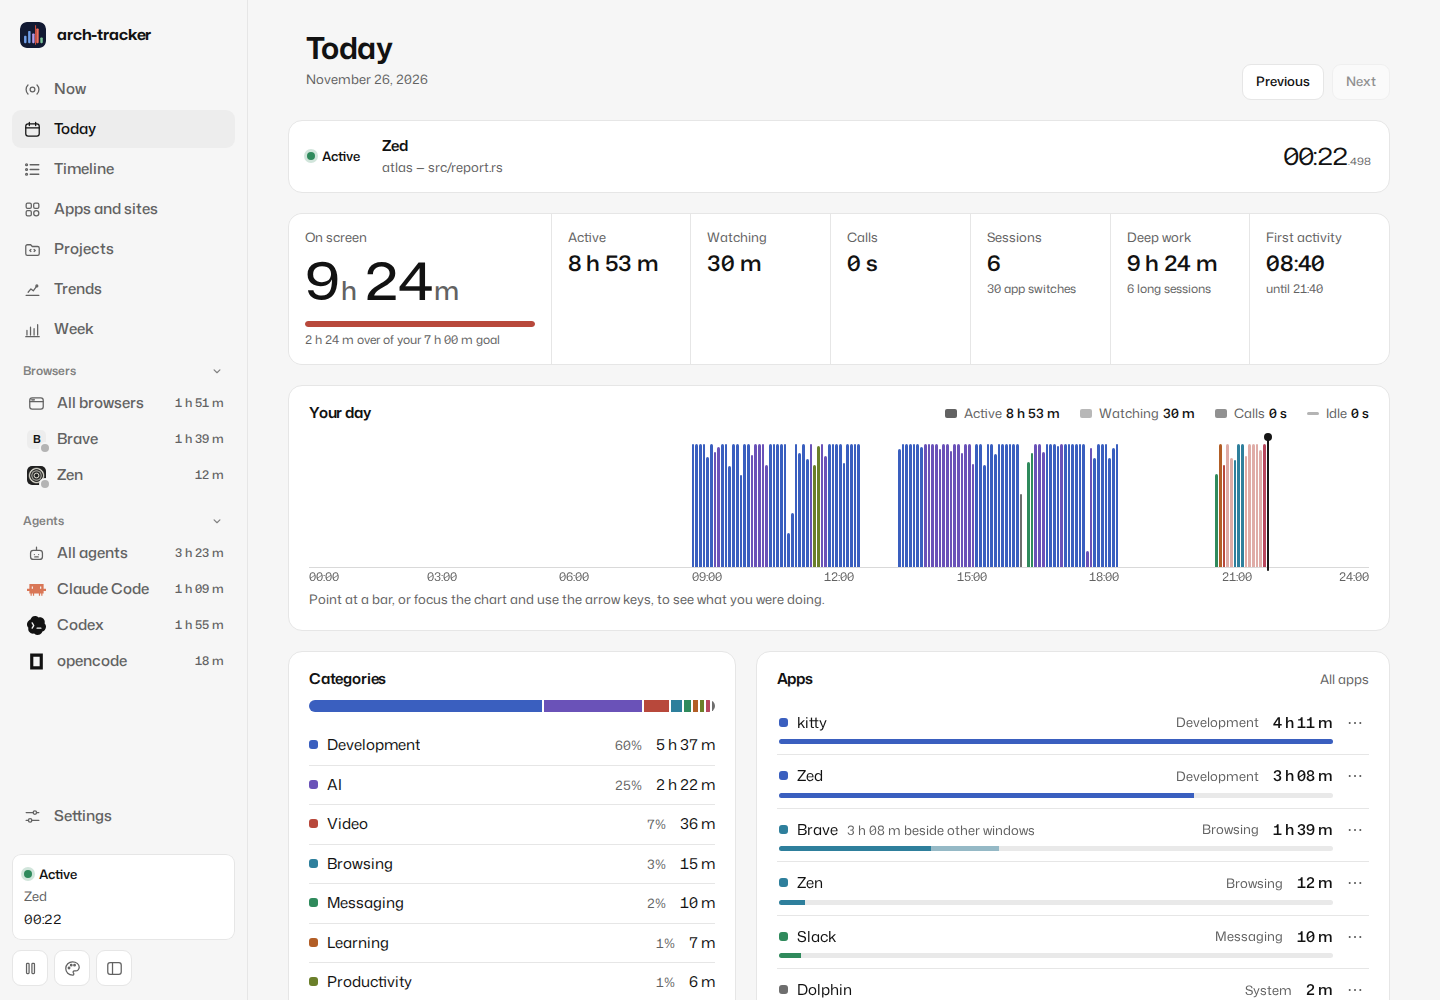
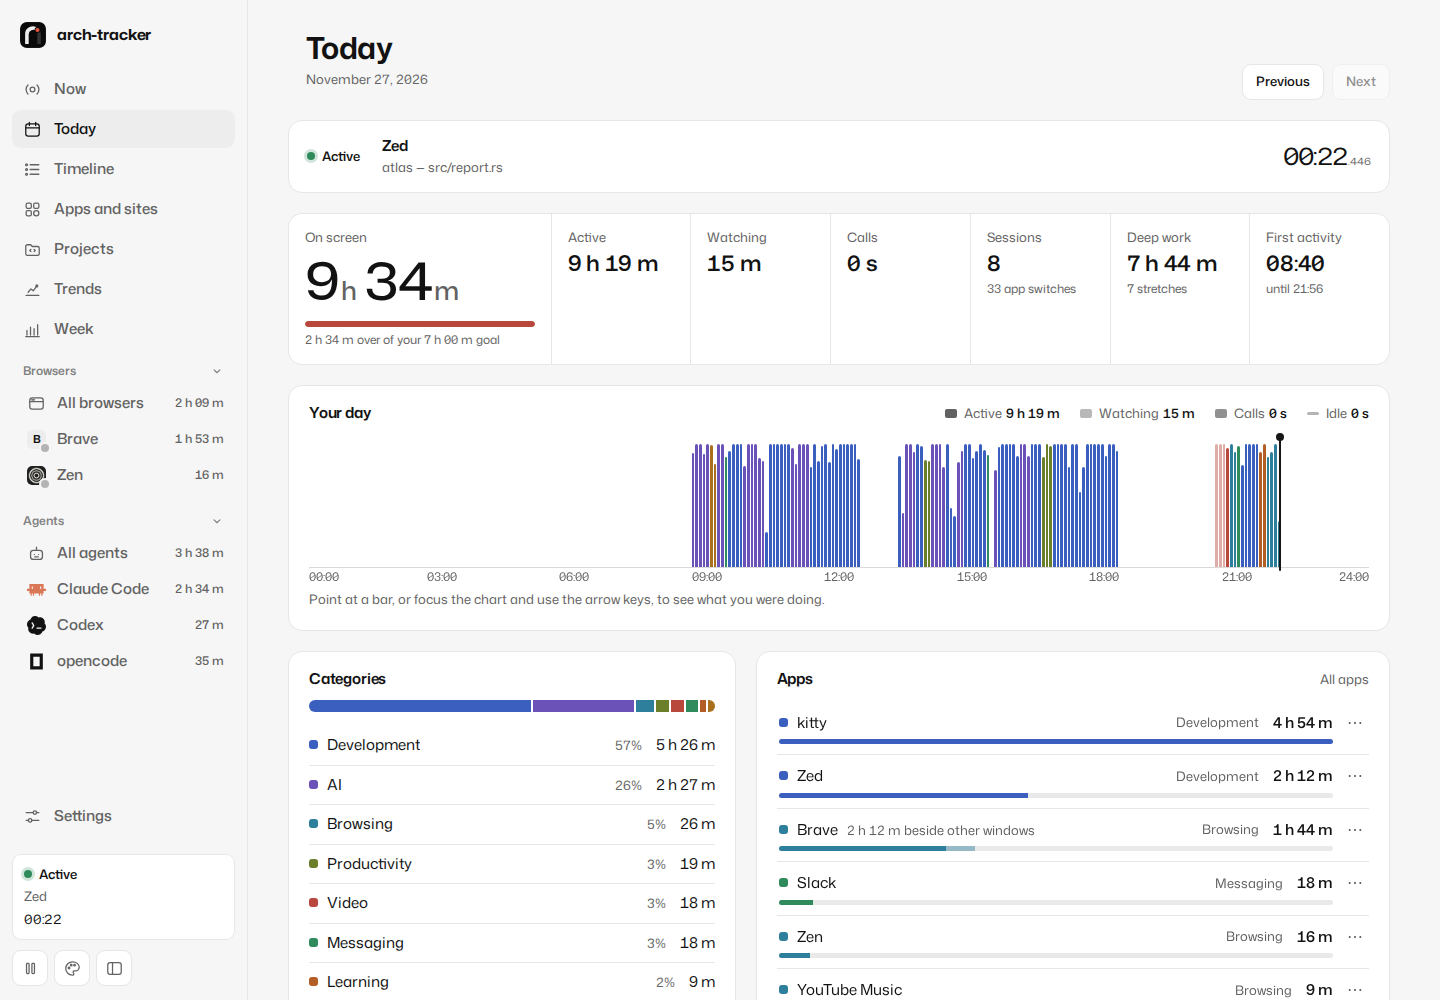
dashboard: honest deep work, a quieter Now page
Deep work counts only time in focus categories (chosen in Settings), so a long evening of
videos is no longer deep work. Now folds empty panels into one line, headline figures no
longer reserve a fixed width, and the WAL file is cut back to 1 MB after checkpoints.
Screenshots run in a time zone where it is evening, so the demo always shows a full day.

diff --git a/web-ui/app.js b/web-ui/app.js
@@ -618,15 +618,26 @@
       <dt>Started</dt><dd>${s.started_ms ? esc(hm(s.started_ms)) : "–"}</dd>
       <dt>Version</dt><dd>${esc(s.version || "")}</dd>
     </dl>`;
+    // Panels with nothing to show fold into one quiet line at the bottom, so the page shows
+    // what is going on instead of a wall of empty cards.
+    const cards = [
+      ["Beside it", visible, { w: "w4", aside: `${(s.visible || []).length} visible`, sub: "Other windows you can see. Visible time, not screen time." }],
+      ["Terminals", terms, { w: "w4" }],
+      ["AI agents", agents, { w: "w4" }],
+      ["Media", media, { w: "w4" }],
+      ["Input and session", facts, { w: "w4" }],
+      ["Browsers", browsers, { w: "w4", sub: "Where tab names and sites come from." }],
+    ];
+    const isEmpty = (body) => body.startsWith('<p class="empty">');
+    const quiet = cards.filter(([, b]) => isEmpty(b)).map(([, b]) => b.replace(/<[^>]+>/g, "").replace(/\.$/, ""));
+    const shown = cards.filter(([, b]) => !isEmpty(b));
+    shown.push(["Tracker", health, { w: "w4", sub: "The tracker itself." }]);
+    // Three small cards to a row; Running apps takes what the last row leaves, or a row of its own.
+    const left = (3 - (shown.length % 3)) % 3;
     return [
-      panel("Beside it", visible, { w: "w4", aside: `${(s.visible || []).length} visible`, sub: "Other windows you can see. Visible time, not screen time." }),
-      panel("Terminals", terms, { w: "w4" }),
-      panel("AI agents", agents, { w: "w4" }),
-      panel("Media", media, { w: "w4" }),
-      panel("Input and session", facts, { w: "w4" }),
-      panel("Browsers", browsers, { w: "w4", sub: "Where tab names and sites come from." }),
-      panel("Running apps", running, { w: "w8", aside: `${(s.running || []).length} open`, sub: "Open, even in the tray. Never counted as use." }),
-      panel("Tracker", health, { w: "w4", sub: "The tracker itself." }),
+      ...shown.map(([t, b, o]) => panel(t, b, o)),
+      panel("Running apps", running, { w: left ? `w${left * 4}` : "w12", aside: `${(s.running || []).length} open`, sub: "Open, even in the tray. Never counted as use." }),
+      quiet.length ? `<p class="quiet">${quiet.map(esc).join(" · ")}</p>` : "",
     ].join("");
   }
 
@@ -713,7 +724,7 @@
       <div class="kpi"><span>Watching</span><b>${dur(t.passive)}</b></div>
       <div class="kpi"><span>Calls</span><b>${dur(t.call)}</b></div>
       <div class="kpi"><span>Sessions</span><b>${st.sessions ?? 0}</b><em>${st.switches ?? 0} app switches</em></div>
-      <div class="kpi"><span>Deep work</span><b>${dur(st.deep_work)}</b><em>${st.deep_sessions ?? 0} long sessions</em></div>
+      <div class="kpi"><span>Deep work</span><b>${dur(st.deep_work)}</b><em>${st.deep_sessions ?? 0} ${st.deep_sessions === 1 ? "stretch" : "stretches"}</em></div>
       <div class="kpi"><span>First activity</span><b>${first}</b><em>${last}</em></div>
     </div>`;
   }
@@ -2277,7 +2288,8 @@
       ${sec("goals", "Goals and sessions", `
         ${field("Daily goal", "Screen time you aim to stay under; Today shows how close you are. 0 turns it off.", num("goal", (c.insights.daily_goal_mins || 0) / 60, "hours", 0, 24, "any"))}
         ${field("Session break", "A pause shorter than this doesn't end a session. Switching apps never does.", num("sgap", c.insights.session_gap_secs, "seconds", 5, 3600))}
-        ${field("Deep work", "An unbroken session at least this long counts as deep work.", num("deep", c.insights.deep_work_mins, "minutes", 5, 480))}
+        ${field("Deep work", "A stretch of time in the categories below at least this long counts as deep work.", num("deep", c.insights.deep_work_mins, "minutes", 5, 480))}
+        ${field("Counts as deep work", "Time elsewhere shorter than a session break (a glance at chat) doesn't end a stretch, but isn't counted. None ticked: every category counts.", `<div class="checklist">${c.categories.map((k, i) => check("dwc" + i, (c.insights.deep_work_categories || []).includes(k.name), k.name)).join("")}</div>`)}
       `, "Per-category limits are in Categories below.")}
       ${sec("notify", "Notifications", `
         ${field("Notifications", "Off turns every notice below off: nothing is checked or sent.", check("nall", nt.enabled, "Send desktop notifications"))}
@@ -2517,6 +2529,7 @@
         daily_goal_mins: Math.round(n("goal") * 60),
         session_gap_secs: n("sgap"),
         deep_work_mins: n("deep"),
+        deep_work_categories: c.categories.filter((_, i) => $("dwc" + i)?.checked).map((k) => k.name),
       };
       next.projects = {
         editors: unlines($("editors").value),

diff --git a/web-ui/app.css b/web-ui/app.css
@@ -418,6 +418,7 @@ input:focus-visible, select:focus-visible, textarea:focus-visible { outline: 2px
 [aria-invalid="true"] { border-color: var(--bad, var(--shu)) !important; }
 .inline { display: flex; align-items: center; gap: 10px; flex-wrap: wrap; }
 .check { display: flex; align-items: center; gap: 10px; }
+.checklist { display: grid; grid-template-columns: repeat(auto-fill, minmax(150px, 1fr)); gap: 8px 16px; }
 .unit { color: var(--mist); font-size: var(--t-s); }
 
 /* ---------- panels ---------- */
@@ -441,6 +442,7 @@ input:focus-visible, select:focus-visible, textarea:focus-visible { outline: 2px
 .panel.w7 { grid-column: span 7; }
 .panel.w8 { grid-column: span 8; }
 .panel.w12 { grid-column: 1 / -1; }
+.grid > .quiet { grid-column: 1 / -1; margin: 0; padding: 0 4px; color: var(--mist); font-size: var(--t-s); }
 .panel > header { display: flex; align-items: baseline; justify-content: space-between; gap: 12px; margin-bottom: 12px; }
 .panel > header .aside { color: var(--mist); font-size: var(--t-s); }
 .panel > header a.aside { text-decoration: none; }
@@ -476,7 +478,7 @@ input:focus-visible, select:focus-visible, textarea:focus-visible { outline: 2px
 
 /* Headline numbers: no boxes, just the figure over its label, left-aligned in a loose row. */
 .figures { display: flex; flex-wrap: wrap; gap: 18px clamp(28px, 4vw, 56px); padding: 6px 2px 10px; }
-.figures > div { flex: 0 1 auto; min-width: 110px; display: grid; gap: 2px; align-content: start; }
+.figures > div { flex: 0 1 auto; display: grid; gap: 2px; align-content: start; }
 /* Six or more figures: closer together, so they stay on one line on a wide screen. */
 .figures:has(> div:nth-child(6)) { column-gap: clamp(22px, 2.4vw, 36px); }
 .figures span { color: var(--mist); font-size: var(--t-s); order: 2; }

diff --git a/src/report/mod.rs b/src/report/mod.rs
@@ -223,7 +223,7 @@ pub struct DayStats {
     pub longest_app: String,
     pub avg_session: i64,
     /// Unbroken stretches of screen time (any apps; a break of session_gap ends one).
-    /// Time in sessions of at least insights.deep_work_mins, and how many.
+    /// Time in deep-work stretches (see deep_work()), and how many.
     pub deep_work: i64,
     pub deep_sessions: usize,
     /// First and last counted moment of the day.
@@ -1285,7 +1285,6 @@ fn sessions_and_stats(
             .map(|(title, _)| title)
             .unwrap_or_default();
     }
-    let deep = cfg.insights.deep_work_mins as i64 * 60;
     let mut st = DayStats {
         switches: out.windows(2).filter(|w| w[0].app != w[1].app).count(),
         first_ms: out.first().map(|s| s.start_ms),
@@ -1322,11 +1321,8 @@ fn sessions_and_stats(
                 .map(|(l, _)| l.clone())
                 .unwrap_or_default();
         }
-        if *counted >= deep {
-            st.deep_work += counted;
-            st.deep_sessions += 1;
-        }
     }
+    (st.deep_work, st.deep_sessions) = deep_work(&out, cfg, gap);
     let total: i64 = blocks.iter().map(|b| b.1).sum();
     st.avg_session = if blocks.is_empty() {
         0
@@ -1811,6 +1807,42 @@ pub fn settings_hash(cfg: &Config) -> String {
     format!("{h:016x}")
 }
 
+/// Deep work: unbroken stretches of time in the focus categories (insights.deep_work_categories)
+/// that add up to at least insights.deep_work_mins. A break of a session gap ends a stretch, and so
+/// does time elsewhere that lasts longer than one; a shorter detour (a glance at chat) neither ends
+/// the stretch nor counts in it.
+fn deep_work(sessions: &[Session], cfg: &Config, gap_ms: i64) -> (i64, usize) {
+    let focus = &cfg.insights.deep_work_categories;
+    let deep = cfg.insights.deep_work_mins as i64 * 60;
+    let (mut total, mut count) = (0, 0);
+    // The stretch so far: where it ends and the focus seconds in it.
+    let mut run: Option<(i64, i64)> = None;
+    let mut close = |run: &mut Option<(i64, i64)>| {
+        if let Some((_, secs)) = run.take()
+            && secs >= deep
+        {
+            total += secs;
+            count += 1;
+        }
+    };
+    for s in sessions.iter().filter(|s| s.counted > 0) {
+        if run.is_some_and(|(end, _)| s.start_ms - end > gap_ms) {
+            close(&mut run);
+        }
+        if focus.is_empty() || focus.contains(&s.category) {
+            let (end, secs) = run.get_or_insert((s.end_ms, 0));
+            *end = (*end).max(s.end_ms);
+            *secs += s.counted;
+        } else if s.counted * 1000 > gap_ms {
+            close(&mut run);
+        } else if let Some((end, _)) = run.as_mut() {
+            *end = (*end).max(s.end_ms);
+        }
+    }
+    close(&mut run);
+    (total, count)
+}
+
 #[cfg(test)]
 mod tests {
     use super::*;
@@ -2278,6 +2310,7 @@ mod tests {
         let mut cfg = Config::default();
         cfg.insights.session_gap_secs = 120;
         cfg.insights.deep_work_mins = 45;
+        cfg.insights.deep_work_categories = vec![];
         let r = compute(&cfg, "x", DS, DS + 2 * H, &spans, &subjects);
         assert_eq!(r.stats.sessions, 2);
         assert_eq!(
@@ -2288,6 +2321,28 @@ mod tests {
         assert_eq!(r.stats.deep_work, 50 * 60);
         assert_eq!(r.stats.deep_sessions, 1);
         assert!(r.sessions.len() > 2, "the Timeline still lists each app");
+    }
+
+    #[test]
+    fn deep_work_is_focus_time_only() {
+        let mut subjects = HashMap::new();
+        subjects.insert(1, Subject::app("kitty", "kitty"));
+        subjects.insert(2, Subject::app("other", "Other"));
+        let spans = vec![
+            // 20 minutes of work, a one-minute detour, 10 more: one 30-minute stretch.
+            sp(Kind::Focus, 1, 0, 20 * M),
+            sp(Kind::Focus, 2, 20 * M, 21 * M),
+            sp(Kind::Focus, 1, 21 * M, 31 * M),
+            // Ten minutes elsewhere end it; the 20 minutes after are too short.
+            sp(Kind::Focus, 2, 31 * M, 41 * M),
+            sp(Kind::Focus, 1, 41 * M, 61 * M),
+        ];
+        let mut cfg = Config::default();
+        cfg.insights.session_gap_secs = 120;
+        let r = compute(&cfg, "x", DS, DS + 2 * H, &spans, &subjects);
+        assert_eq!(r.stats.sessions, 1, "no break, so one session");
+        assert_eq!(r.stats.deep_work, 30 * 60, "the detour is not counted");
+        assert_eq!(r.stats.deep_sessions, 1);
     }
 
     #[test]

diff --git a/src/config.rs b/src/config.rs
@@ -110,8 +110,11 @@ pub struct Projects {
 pub struct Insights {
     /// A break shorter than this does not end a session (seconds).
     pub session_gap_secs: u64,
-    /// A session at least this long counts as deep work (minutes).
+    /// A stretch of focus-category time at least this long counts as deep work (minutes).
     pub deep_work_mins: u64,
+    /// Categories whose time counts as deep work. Time in any other category ends a stretch
+    /// once it lasts longer than a session break. Empty: every category counts.
+    pub deep_work_categories: Vec<String>,
     /// Daily screen-time goal in minutes (0 = none).
     pub daily_goal_mins: u64,
 }
@@ -484,6 +487,9 @@ impl Default for Insights {
         Insights {
             session_gap_secs: 60,
             deep_work_mins: 25,
+            deep_work_categories: ["Development", "AI", "Productivity", "Learning"]
+                .map(String::from)
+                .to_vec(),
             daily_goal_mins: 0,
         }
     }

diff --git a/src/store/mod.rs b/src/store/mod.rs
@@ -28,6 +28,8 @@ impl Store {
         let conn = Connection::open(path).with_context(|| format!("opening {}", path.display()))?;
         conn.pragma_update(None, "journal_mode", "WAL")?;
         conn.pragma_update(None, "synchronous", "NORMAL")?;
+        // A checkpoint leaves the WAL file at its largest size; cut it back to 1 MB after one.
+        conn.pragma_update(None, "journal_size_limit", 1 << 20)?;
         conn.busy_timeout(std::time::Duration::from_secs(5))?;
         migrate(&conn)?;
         let max: i64 = conn.query_row("SELECT COALESCE(MAX(id), 0) FROM subjects", [], |r| {

diff --git a/CHANGELOG.md b/CHANGELOG.md
@@ -8,6 +8,16 @@ All notable changes to this project are documented here. The format follows
 
 ### Fixed
 
+- Deep work counted any long stretch on screen, videos included, so it came out close to the
+  whole day. It now counts only time in the focus categories (Development, AI, Productivity and
+  Learning unless you pick others in Settings → Goals and sessions); a detour elsewhere shorter
+  than a session break doesn't end a stretch but isn't counted, and a longer one does.
+- Now no longer shows a wall of empty cards: terminals, agents, media and browsers with nothing
+  to show fold into one line at the bottom.
+- The headline figures on a browser's or an agent's page are evenly spaced.
+- The database's write-ahead log is cut back to 1 MB after each checkpoint instead of staying at
+  its largest size.
+
 - Codex's use counted far too low: Codex moves older conversations into its own database and
   removes their logs, so only the newest few were read. Its database is now read too (read-only;
   titles and prompts are never read): a conversation's tokens beyond the responses in the logs are
